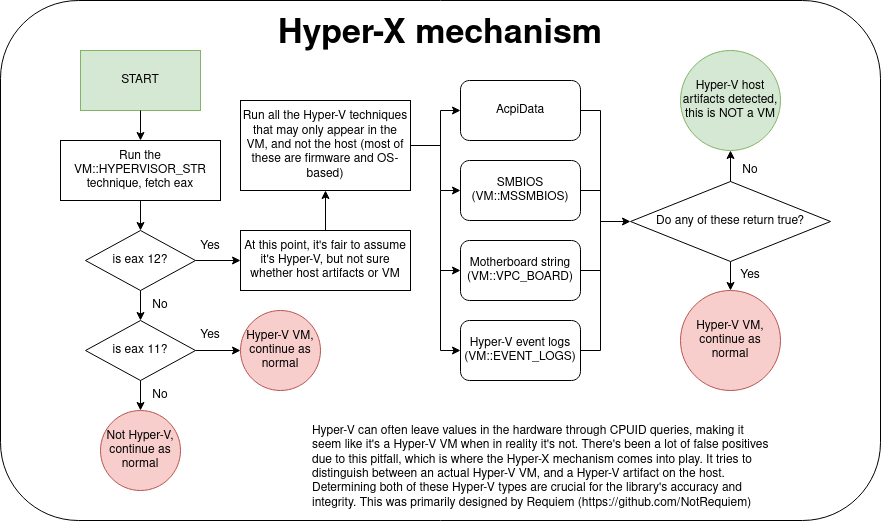
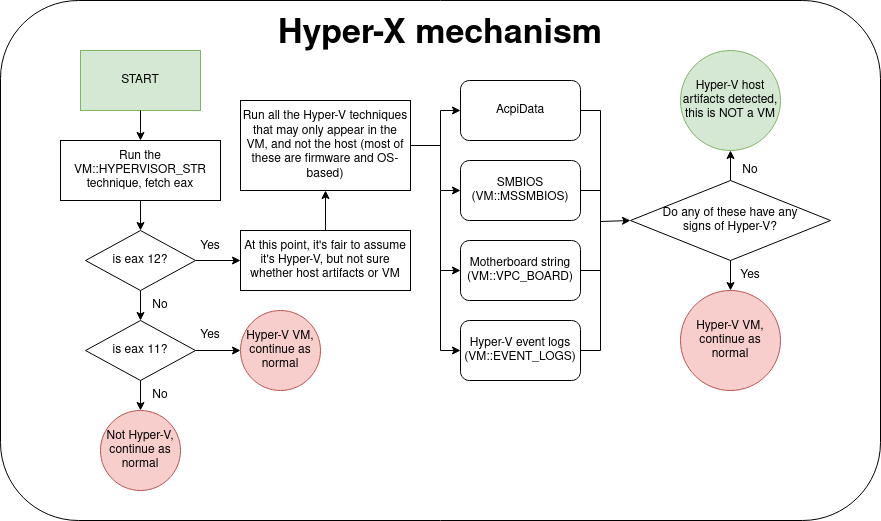
Hyper-X in q&a

diff --git a/src/vmaware.hpp b/src/vmaware.hpp
@@ -8660,7 +8660,7 @@ private: // START OF PRIVATE VM DETECTION TECHNIQUE DEFINITIONS
 
 
     /**
-     * @brief Check for the "UML" string in the CPU brand
+     * @brief Check for any indications of hypervisors in the kernel message logs
      * @note idea from https://github.com/ShellCode33/VM-Detection/blob/master/vmdetect/linux.go
      * @category Linux
      */
@@ -9790,6 +9790,7 @@ public: // START OF PUBLIC FUNCTIONS
 
         return flags;
     }
+
 
     /**
      * @brief This will convert the technique flag into a string, which will correspond to the technique name

diff --git a/README.md b/README.md
@@ -107,6 +107,12 @@ You can view the full docs [here](docs/documentation.md). All the details such a
 - Why another VM detection project?
 > There's already loads of projects that have the same goal such as [InviZzzible](https://github.com/CheckPointSW/InviZzzible), [pafish](https://github.com/a0rtega/pafish) and [Al-Khaser](https://github.com/LordNoteworthy/al-khaser). But the difference between the aforementioned projects is that they don't provide a programmable interface to interact with the detection mechanisms, on top of having little to no support for non-Windows systems. I wanted the core detection techniques to be accessible programmatically in a cross-platform way for everybody to get something useful out of it rather than providing just a CLI tool like those projects.
 
+- How can the library distinguish between Hyper-V artifacts and an actual Hyper-V VM in the system?
+> Hyper-V has an obscure feature where if it's enabled in the host system, the CPU hardware values makes it look like the whole system is running inside Hyper-V, which isn't true. This makes it a challenge to determine whether the hardware values the library is collecting is either a real Hyper-V VM, or just the artifacts of what Hyper-V has left as a consequence of having it enabled in the host system. The reason why this is a problem is because the library might falsely conclude that your the host system is running in Hyper-V, which is a false positive. This is where the **Hyper-X** mechanism comes into play to distinguish between these two. This was designed by [Requiem](https://github.com/NotRequiem)
+> <p align="center">
+> <img src="assets/Hyper-X.png" align="center" title="Hyper-X">
+> <br>
+
 - Is it possible to spoof the result?
 > Yes. There are some techniques that are trivially spoofable, and there's nothing the library can do about it whether it's a deliberate false positive or even a false negative. This is a problem that every VM detection project is facing, which is why the library is trying to test every technique possible to get the best result based on the environment it's running under. 
 

diff --git a/docs/documentation.md b/docs/documentation.md
@@ -439,7 +439,7 @@ VMAware provides a convenient way to not only check for VMs, but also have the f
 | `VM::QEMU_USB` | Check for presence of QEMU in the /sys/kernel/debug/usb/devices directory | Linux | 20% |  |  |  |  |
 | `VM::HYPERVISOR_DIR` | Check for presence of any files in /sys/hypervisor directory | Linux | 20% |  |  |  |  |
 | `VM::UML_CPU` | Check for the "UML" string in the CPU brand | Linux | 80% |  |  |  |  |
-| `VM::KMSG` | Check for the "UML" string in the CPU brand | Linux | 10% |  |  |  |  |
+| `VM::KMSG` | Check for any indications of hypervisors in the kernel message logs | Linux | 10% |  |  |  |  |
 | `VM::VM_PROCS` | Check for a Xen VM process | Linux | 20% |  |  |  |  |
 | `VM::VBOX_MODULE` | Check for a VBox kernel module | Linux | 15% |  |  |  |  |
 | `VM::SYSINFO_PROC` | Check for potential VM info in /proc/sysinfo | Linux | 15% |  |  |  |  |
